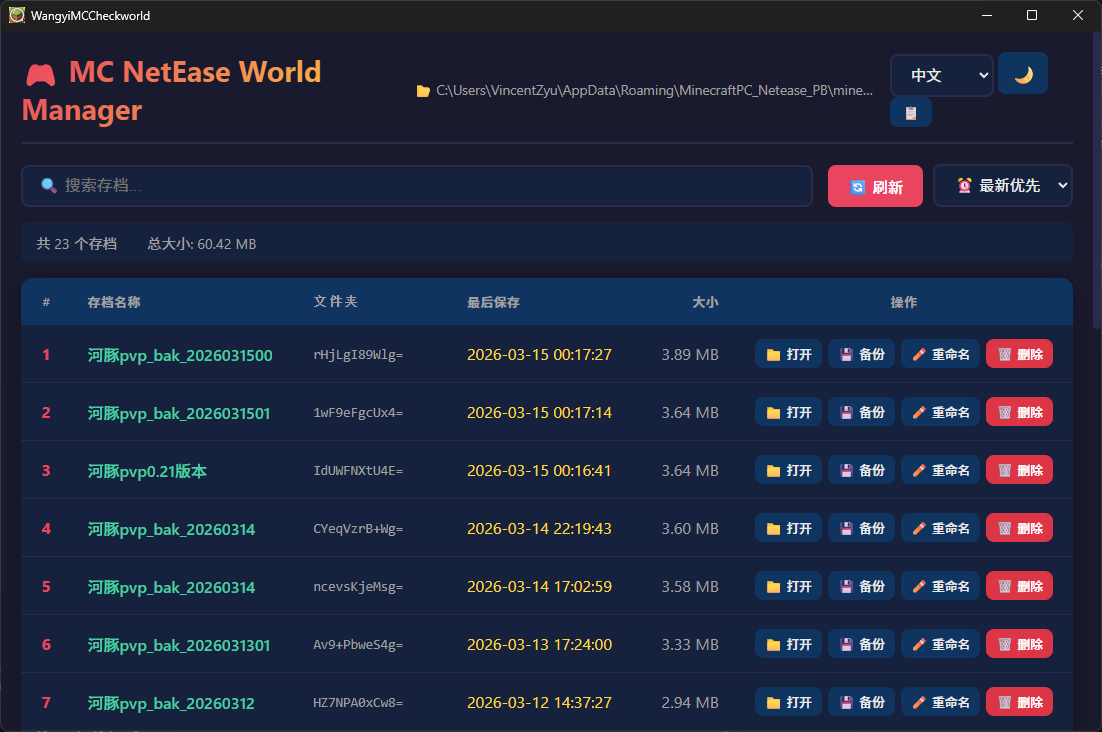
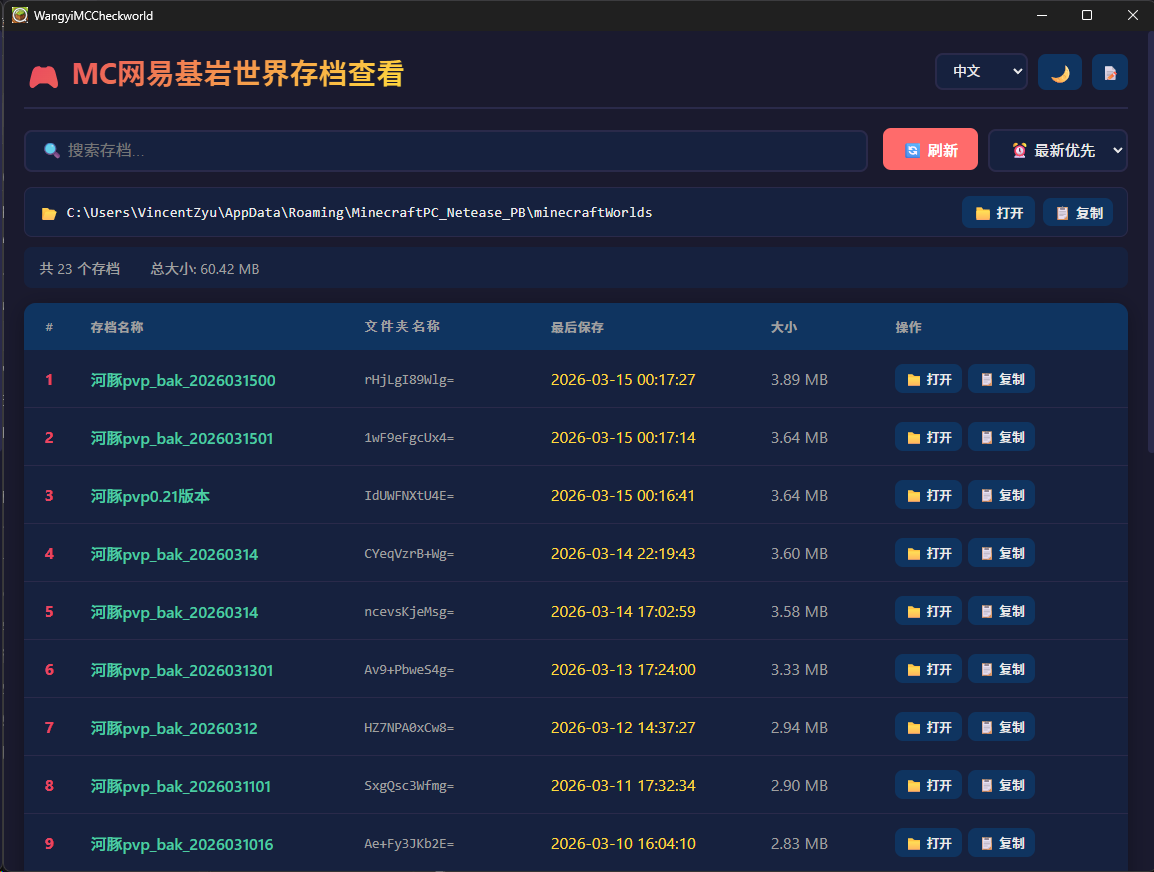
docs: update readme and preview image

diff --git a/README.md b/README.md
@@ -1,11 +1,11 @@
-![wangyi-mc-checkworld-tauri](https://socialify.git.ci/VincentZyuApps/wangyi-mc-checkworld-tauri/image?custom_language=Rust&description=1&font=JetBrains+Mono&forks=1&issues=1&language=1&logo=https%3A%2F%2Fuxwing.com%2Fwp-content%2Fthemes%2Fuxwing%2Fdownload%2Fbrands-and-social-media%2Ftauri-icon.png&name=1&owner=1&pattern=Signal&pulls=1&stargazers=1&theme=Auto)
+![wangyi-mc-checkworld-tauri](https://socialify.git.ci/VincentZyuApps/wangyi-mc-checkworld-tauri/image?custom_language=Rust&description=1&font=Source+Code+Pro&forks=1&issues=1&language=1&logo=https%3A%2F%2Ficon.icepanel.io%2FTechnology%2Fsvg%2FTauri.svg&name=1&owner=1&pattern=Signal&pulls=1&stargazers=1&theme=Auto)
 
 # MC NetEase World Manager
 
 [![GitHub](https://img.shields.io/badge/GitHub-Repository-black?logo=github)](https://github.com/VincentZyuApps/wangyi-mc-checkworld-tauri)
 [![Gitee](https://img.shields.io/badge/Gitee-Repository-c41e3a?logo=gitee&logoColor=white)](https://gitee.com/vincent-zyu/wangyi-mc-checkworld-tauri)
 
-一个用 Rust + Tauri 构建的网易我的世界电脑版存档查看工具。
+一个用 Rust + Tauri 构建的网易我的世界电脑版存档管理工具。
 
 ## 🛠️ 技术栈
 
@@ -18,24 +18,31 @@
 | ![serde](https://img.shields.io/badge/serde-0.2.7-E34F4F?logo=json&logoColor=white) | 0.2.7 | Rust 序列化/反序列化库，处理配置和数据交换 |
 | ![serde_json](https://img.shields.io/badge/serde__json-1.0-E34F4F?logo=json&logoColor=white) | 1.0 | JSON 支持，配合 serde 处理前后端数据 |
 | ![chrono](https://img.shields.io/badge/chrono-0.2.7-7B2D8B?logo=rust&logoColor=white) | 0.2.7 | 日期时间处理，带 serde 支持，记录存档时间戳 |
-| ![walkdir](https://img.shields.io/badge/walkdir-2.4-orange?logo=rust&logoColor=white) | 2.4 | 遍历存档目录树 |
+| ![walkdir](https://img.shields.io/badge/walkdir-2.4-orange?logo=rust&logoColor=white) | 2.4 | 高效遍历目录树，扫描存档文件夹 |
+| ![fs_extra](https://img.shields.io/badge/fs__extra-1.3-orange?logo=rust&logoColor=white) | 1.3 | 增强版文件操作，复制/移动/重命名文件夹 |
+| ![zip](https://img.shields.io/badge/zip-0.6-orange?logo=rust&logoColor=white) | 0.6 | ZIP 压缩/解压，打包存档为 .zip 备份 |
 | ![tracing](https://img.shields.io/badge/tracing-0.1-orange?logo=rust&logoColor=white) | 0.1 | 结构化日志门面 API |
+| ![tracing-subscriber](https://img.shields.io/badge/tracing--subscriber-0.3-orange?logo=rust&logoColor=white) | 0.3 | 日志订阅者（env-filter 过滤器） |
+| ![tracing-appender](https://img.shields.io/badge/tracing--appender-0.2-orange?logo=rust&logoColor=white) | 0.2 | 非阻塞日志写入文件 |
 
 ## ✨ 功能
 
 - 📂 **列出存档** - 显示所有存档的名称、文件夹、保存时间和大小
 - 🔍 **搜索过滤** - 按名称或文件夹名搜索
 - 📊 **多种排序** - 按时间、名称、大小排序
-- 📁 **打开文件夹** - 一键打开存档目录
-- 📋 **复制路径** - 一键复制存档路径
-- 📝 **实时日志** - 前端窗口实时查看运行日志
-- 🎨 **明暗主题** - 支持 浅色/深色/跟随系统 三种主题模式
+- 💾 **备份存档** - 一键打包为 ZIP 文件
+- ✏️ **重命名存档** - 修改存档显示名称
+- 🗑️ **删除存档** - 安全删除不需要的存档
+- 🎨 **深色主题** - 现代化暗色 UI 界面
+- 📋 **实时日志** - exe 同级目录 latest.log，前端窗口实时查看
 
-## 🔧 核心原理
+## 🔑 核心原理
 
-应用通过环境变量 `%APPDATA%` 自动定位存档目录：`%APPDATA%\MinecraftPC_Netease_PB\minecraftWorlds`，无需手动配置。
+利用 Windows 环境变量动态获取用户应用数据目录，确保跨用户兼容性。
 
-利用 Windows 环境变量动态获取用户应用数据目录，确保跨用户兼容性和自动化部署。
+通过环境变量 `%APPDATA%` 自动定位存档目录：`%APPDATA%\MinecraftPC_Netease_PB\minecraftWorlds`，无需手动配置。
+
+
 
 ## 📸预览
 
@@ -106,11 +113,15 @@ wangyi-mc-checkworld-tauri/
 │   ├── tauri.conf.json
 │   └── src/
 │       ├── main.rs         # 入口 + 模块引入
-│       ├── logger.rs      # tracing 日志系统
-│       └── world.rs       # 存档 CRUD
+│       ├── logger.rs       # tracing 日志系统
+│       └── world.rs        # 存档查看
 ├── .github/
 │   └── workflows/
 │       └── build.yml       # GitHub Actions
+├── assets/                 
+│   ├── icon.ico
+│   ├── icon.png
+│   └── png_to_ico.py       # 豆包生成的logo转换成ico文件捏
 └── README.md
 ```
 
@@ -119,4 +130,4 @@ wangyi-mc-checkworld-tauri/
 - Windows 10/11 x64 (仅支持 64 位)
 - 已安装网易我的世界电脑版(基岩互通版)  ↓
 
-![doc/基岩互通版.png](doc/基岩互通版.png)
+![doc/基岩互通版.png](doc/基岩互通版.png)indows 10/11 x64 (仅支持 64 位)